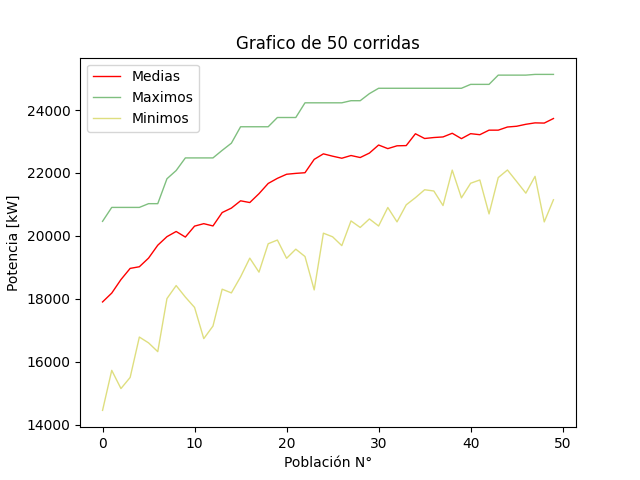
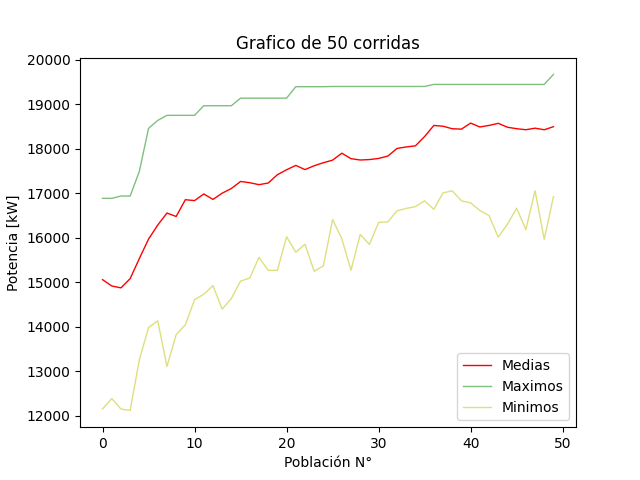
Eliminacion de libreria enum, sin uso

diff --git a/Trabajo Practico Integrador/Cromosoma.py b/Trabajo Practico Integrador/Cromosoma.py
@@ -59,7 +59,7 @@ class Cromosoma(object):
     def efectoEstela(self,velViento,distanciaCasillas):
         a=0.3333
         radioAero=45
-        coefDeArrastre= round(( 1 / (2 * math.log(80/0.0025))),4) #Aproximadamente 0.0678
+        coefDeArrastre= round(( 1 / (2 * math.log(80/0.0025))),4) #Aproximadamente 0.0482
         return velViento * ( 1 - ( 2 * a / (1 + (coefDeArrastre * distanciaCasillas * Cromosoma.TamañoCelda) / radioAero )**2) ) 
 
     def calculoPotenciaAerogenerador(self,velViento):  

diff --git a/Trabajo Practico Integrador/OperadoresGeneticos.py b/Trabajo Practico Integrador/OperadoresGeneticos.py
@@ -1,4 +1,3 @@
-from enum import Enum
 import random as rnd
 from Cromosoma import Cromosoma
 
@@ -54,6 +53,7 @@ class CrossOverUnPunto():
                 hijo2=Cromosoma()
                 posicionCorte=rnd.randint(0,Cromosoma.tCromo-1)                  
                 #Tipo de Cruce por fila
+                
                 for fila in range(0,posicionCorte):
                     hijo1.insertoGenes(padre._genes[fila],fila)
                     hijo2.insertoGenes(madre._genes[fila],fila)

diff --git a/Trabajo Practico Integrador/Generacion.py b/Trabajo Practico Integrador/Generacion.py
@@ -76,5 +76,3 @@ class Generacion(object):
         wb.save("./Salidas/Datos.xlsx")
         self.dibujoGrafica()
 
-    def getPoblacion(self, indice):
-        return self._arrPoblaciones[indice]

diff --git a/Trabajo Practico Integrador/Poblacion.py b/Trabajo Practico Integrador/Poblacion.py
@@ -1,7 +1,6 @@
 import random as rnd
 from Cromosoma import *
 import copy
-from enum import Enum
 
 class Poblacion(object):
 
